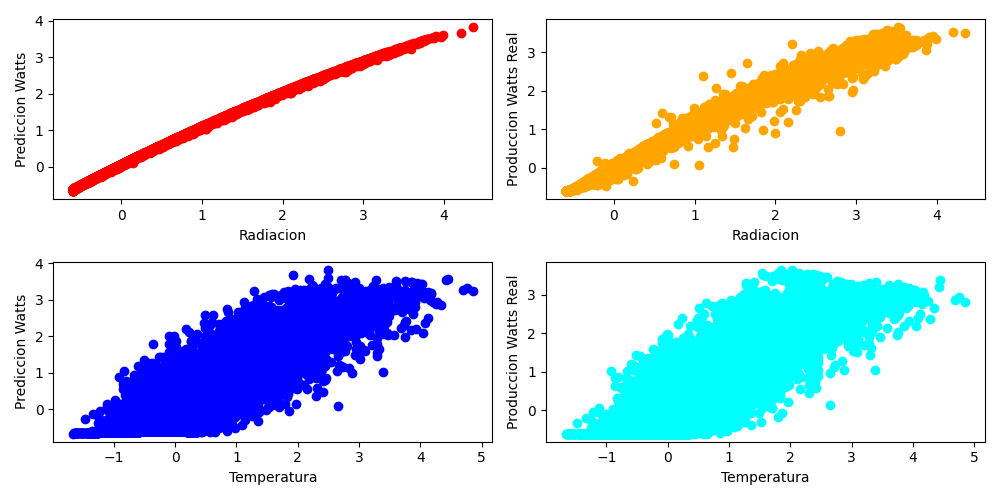
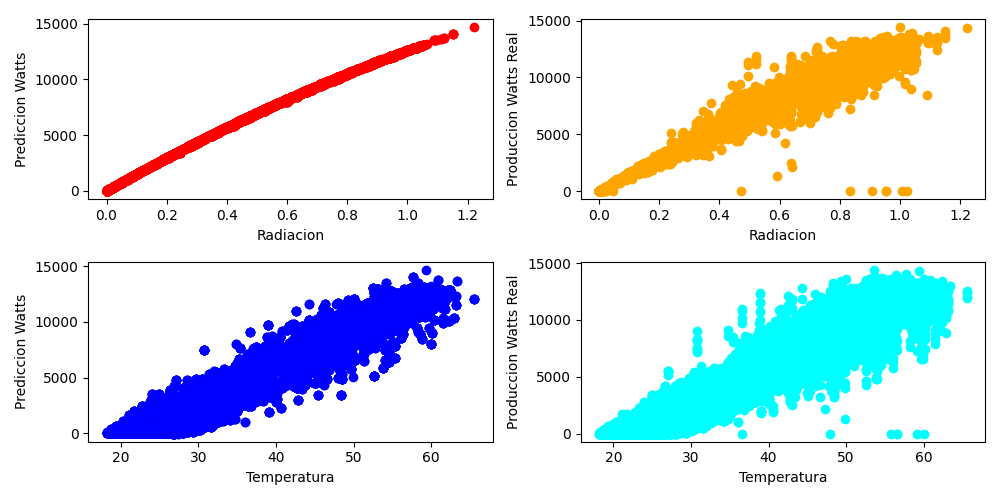
resultados correxidos

diff --git a/src/main14.py b/src/main14.py
@@ -94,8 +94,6 @@ def kmeans(path, n_clusters):
     plt.show()
 
 
-
-
 def autoEncoder(path):
 
     data = pd.read_csv(path)
@@ -140,11 +138,10 @@ def autoEncoder(path):
     plt.show()
 
 
-
-def adestrarMetodo(datafile, metodo, nome, depVars, indepVars):
-    df = pd.read_csv(datafile); X = df[indepVars]; Y = df[depVars]
-    model = make_pipeline(StandardScaler(), metodo)
-    cross_validation_regression(model, X, Y, folds=10, name="Solar production", model_name=nome)
+def adestrarMetodo(df, model, nome, depVars, indepVars):
+    X = df[indepVars]; Y = df[depVars]
+    scaler = StandardScaler()
+    cross_validation_regression(model, scaler.fit_transform(X), scaler.fit_transform(Y), folds=10, name="Solar production", model_name=nome)
     model.fit(X, Y)
     graficarResultados(model, nome, X, Y)
     output_path = Path(f"models/{nome}/", f"{nome}.pkl")
@@ -152,91 +149,20 @@ def adestrarMetodo(datafile, metodo, nome, depVars, indepVars):
     joblib.dump(model, output_path)
 
 
-
-
-
-def abnormalities(data= None, row = None, col = None, title='DC Power'):
-    cols = data.columns # take all column
-    gp = plt.figure(figsize=(20,40)) 
-    
-    gp.subplots_adjust(wspace=0.2, hspace=0.5)
-    for i in range(1, len(cols)+1):
-        ax = gp.add_subplot(row,col, i)
-        data[cols[i-1]].plot(ax=ax, color='red')
-        ax.set_title('{} {}'.format(title, cols[i-1]),color='blue')
-    plt.show()
-        
-
-def graficarRelacionVariables():
+def process_df():
     weather_data = pd.read_csv(Config.weather_path)
     generation_data = pd.read_csv(Config.generation_path)
-
     generation_data['DATE_TIME'] = pd.to_datetime(generation_data['DATE_TIME'],format = '%d-%m-%Y %H:%M')
     weather_data['DATE_TIME'] = pd.to_datetime(weather_data['DATE_TIME'],format = '%Y-%m-%d %H:%M:%S')
-    #print(generation_data.head())
     df_solar = pd.merge(generation_data.drop(columns = ['PLANT_ID']), weather_data.drop(columns = ['PLANT_ID', 'SOURCE_KEY']), on='DATE_TIME')
-    # adding separate time and date columns
-    df_solar["DATE"] = pd.to_datetime(df_solar["DATE_TIME"]).dt.date
-    df_solar["TIME"] = pd.to_datetime(df_solar["DATE_TIME"]).dt.time
-    df_solar['DAY'] = pd.to_datetime(df_solar['DATE_TIME']).dt.day
-    df_solar['MONTH'] = pd.to_datetime(df_solar['DATE_TIME']).dt.month
-    #df_solar['WEEK'] = pd.to_datetime(df_solar['DATE_TIME']).dt.week
-
-
-    # add hours and minutes for ml models
-    df_solar['HOURS'] = pd.to_datetime(df_solar['TIME'],format='%H:%M:%S').dt.hour
-    df_solar['MINUTES'] = pd.to_datetime(df_solar['TIME'],format='%H:%M:%S').dt.minute
-    df_solar['TOTAL MINUTES PASS'] = df_solar['MINUTES'] + df_solar['HOURS']*60
-
-
-    # add date as string column
-    df_solar["DATE_STRING"] = df_solar["DATE"].astype(str) # add column with date as string
-    df_solar["HOURS"] = df_solar["HOURS"].astype(str)
-    df_solar["TIME"] = df_solar["TIME"].astype(str)
-    #print(df_solar.head(200))
-    print(df_solar.info())
-    print(df_solar.isnull().sum())
-
-    from sklearn.preprocessing import LabelEncoder
-    encoder = LabelEncoder()
-    df_solar['SOURCE_KEY_NUMBER'] = encoder.fit_transform(df_solar['SOURCE_KEY'])
-    print(df_solar.head())
-    sns.displot(data=df_solar, x="AMBIENT_TEMPERATURE", kde=True, bins = 100, color = "red", facecolor = "#3F7F7F",height = 5, aspect = 3.5)
-    plt.show()
-
-    solar_dc = df_solar.pivot_table(values='DC_POWER', index='TIME', columns='DATE')
-    abnormalities(data=solar_dc, row=12, col=3)
-
-    daily_irradiation = df_solar.groupby('DATE')['IRRADIATION'].agg('sum')
-
-    daily_irradiation.sort_values(ascending=False).plot.bar(figsize=(17,5), legend=True,color='blue')
-    plt.title('IRRADIATION')
-    plt.show()
-
-    """
-    print("Max: " + str(df[['radiation']].max()))
-    X_radiation = df[['radiation']].to_numpy()
-    X_temperature = df[['temperature']].to_numpy()
-    Y_potencia = df[['W']].to_numpy()
-
-    fig, (ax1, ax2) = plt.subplots(1, 2, figsize=(10, 5))
-    ax1.scatter(X_radiation, Y_potencia.flatten(), label="Prediction", color='red')
-    ax1.set_xlabel('Radiacion'); ax1.set_ylabel('Produccion')
-    ax1.set_title('Produccion Solar')
-
-    ax2.scatter(X_temperature, Y_potencia.flatten(), label="Real", color='blue')
-    ax2.set_xlabel('Temperatura'); ax2.set_ylabel('Produccion')
-    ax2.set_title('Produccion Solar')
-    plt.tight_layout()
-    plt.show()
-    """
+    return df_solar.drop(columns = ['DATE_TIME', 'SOURCE_KEY', 'DAILY_YIELD', 'TOTAL_YIELD', 'AMBIENT_TEMPERATURE', 'AC_POWER'])
 
 
 if __name__ == "__main__":
 
     # 1: Estudo do conxunto de datos
 
-    graficarRelacionVariables()
+    #graficarRelacionVariables()
 
 
     # 2: Tecnicas de deteccion de anomalias
@@ -247,14 +173,13 @@ if __name__ == "__main__":
     
 
     # 3: Modelos de regresion
-
-
+    df = process_df()
 
 
     methods = []
     methods.append(("linealRegression", make_pipeline(StandardScaler(), LinearRegression())))
 
-    """
+    
     methods.append(("polynomialMethod", make_pipeline(
         PolynomialFeatures(2, include_bias=False),
         StandardScaler(),
@@ -267,11 +192,7 @@ if __name__ == "__main__":
     )))
 
     methods.append(("rdmForestMethod", make_pipeline(StandardScaler(), RandomForestRegressor(n_estimators=100))))
-    """
-    
 
 
-    #for method in methods:
-    #    adestrarMetodo(Config.path, method[1], method[0], Config.depVars, Config.indepVars)
-       
-
+    for method in methods:
+        adestrarMetodo(df, method[1], method[0], Config.depVars, Config.indepVars)

diff --git a/src/cross_validation.py b/src/cross_validation.py
@@ -14,12 +14,9 @@ def cross_validation_regression(model, X, y, folds=5, name="", model_name=""):
         with open(output_path, "w") as f:
             for metric_name, metric_values in cv_results.items():
                 if metric_name.startswith('test_'):
-                    # Formatear el nombre de la métrica para mejorar la legibilidad
                     formatted_name = metric_name[5:].replace('_', ' ').capitalize()
-                    # Calcular promedio y desviación estándar
                     mean_value = np.mean(metric_values)
                     std_dev = np.std(metric_values)
-                    # Ajustar el formato del mensaje según el tipo de métrica
                     if "mape" in metric_name.lower() or "smape" in metric_name.lower():
                         f.write(f"{formatted_name}: {mean_value:.2f}% (+-{std_dev:.2f}%)\n")
                     else:
@@ -29,14 +26,9 @@ def cross_validation_regression(model, X, y, folds=5, name="", model_name=""):
 
     scoring = {
         "MSE": make_scorer(mean_squared_error, greater_is_better=False),
-        "RMSE": make_scorer(
-            lambda y_true, y_pred: np.sqrt(mean_squared_error(y_true, y_pred)),
-            greater_is_better=False,
-        ),
-        "MAE": make_scorer(mean_absolute_error, greater_is_better=False),
-        "MAPE": make_scorer(mean_absolute_percentage_error, greater_is_better=False),
-        "SMAPE": smape_scorer,
         "R2": "r2",
     }
     cv_results = cross_validate(model, X, y, cv=folds, scoring=scoring)
+    cv_results['test_MSE'] = abs(cv_results['test_MSE'])
+    print("Resultados: " + str(cv_results))
     write_cv_results_to_file(cv_results, model_name, name)

diff --git a/src/testIForest1.py b/src/testIForest1.py
@@ -386,7 +386,8 @@ def randomForest(datafile, dep_vars, indep_vars):
     y = df[dep_vars]  # Dependent variable
 
     # Perform the linear regression
-    model = make_pipeline(StandardScaler(), RandomForestRegressor(n_estimators=100))
+    scaler = StandardScaler()
+    model = make_pipeline(scaler, RandomForestRegressor(n_estimators=100))
 
     name = "RdmForest"
     MODEL_NAME = "RdmForest"

diff --git a/src/Config.py b/src/Config.py
@@ -2,6 +2,7 @@ import os
 weather_path = os.path.join(os.path.dirname(__file__), "dataset", "Plant_1_Weather_Sensor_Data.csv")
 generation_path = os.path.join(os.path.dirname(__file__), "dataset", "Plant_1_Generation_Data.csv")
 
-depVars = "W"
-indepVars = ["radiation", "temperature"]
+depVars = ['DC_POWER']
+indepVars = ['IRRADIATION', 'MODULE_TEMPERATURE']
+
 n_clusters = 3
